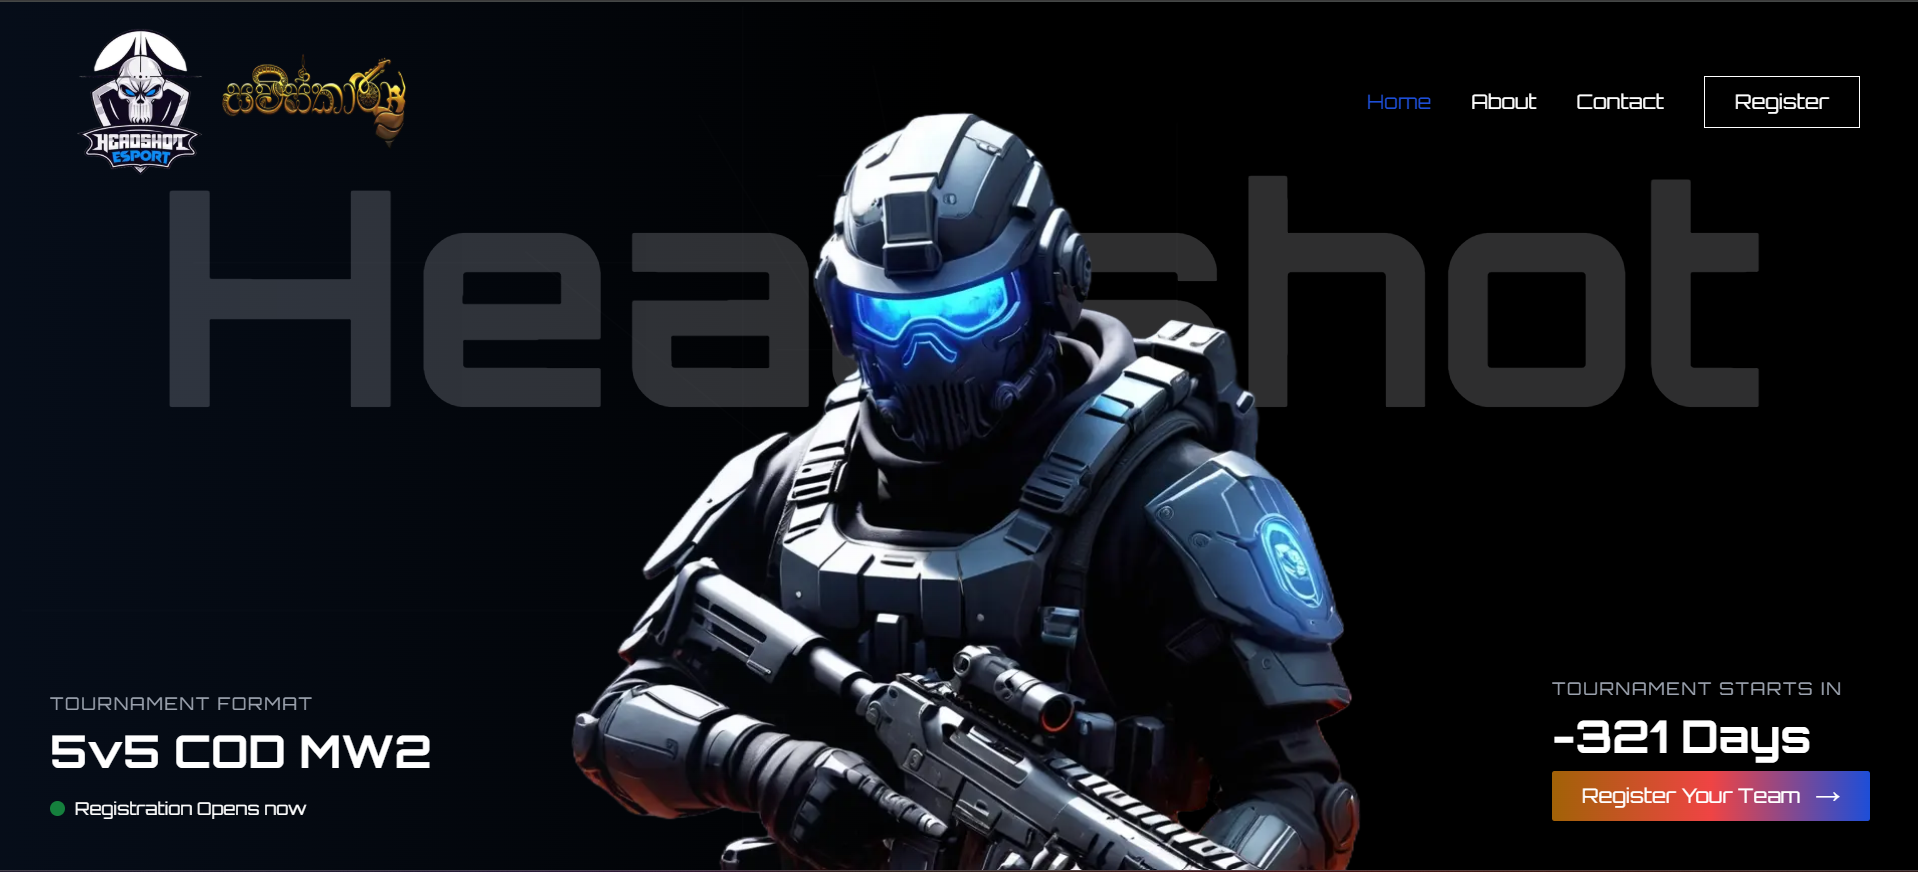
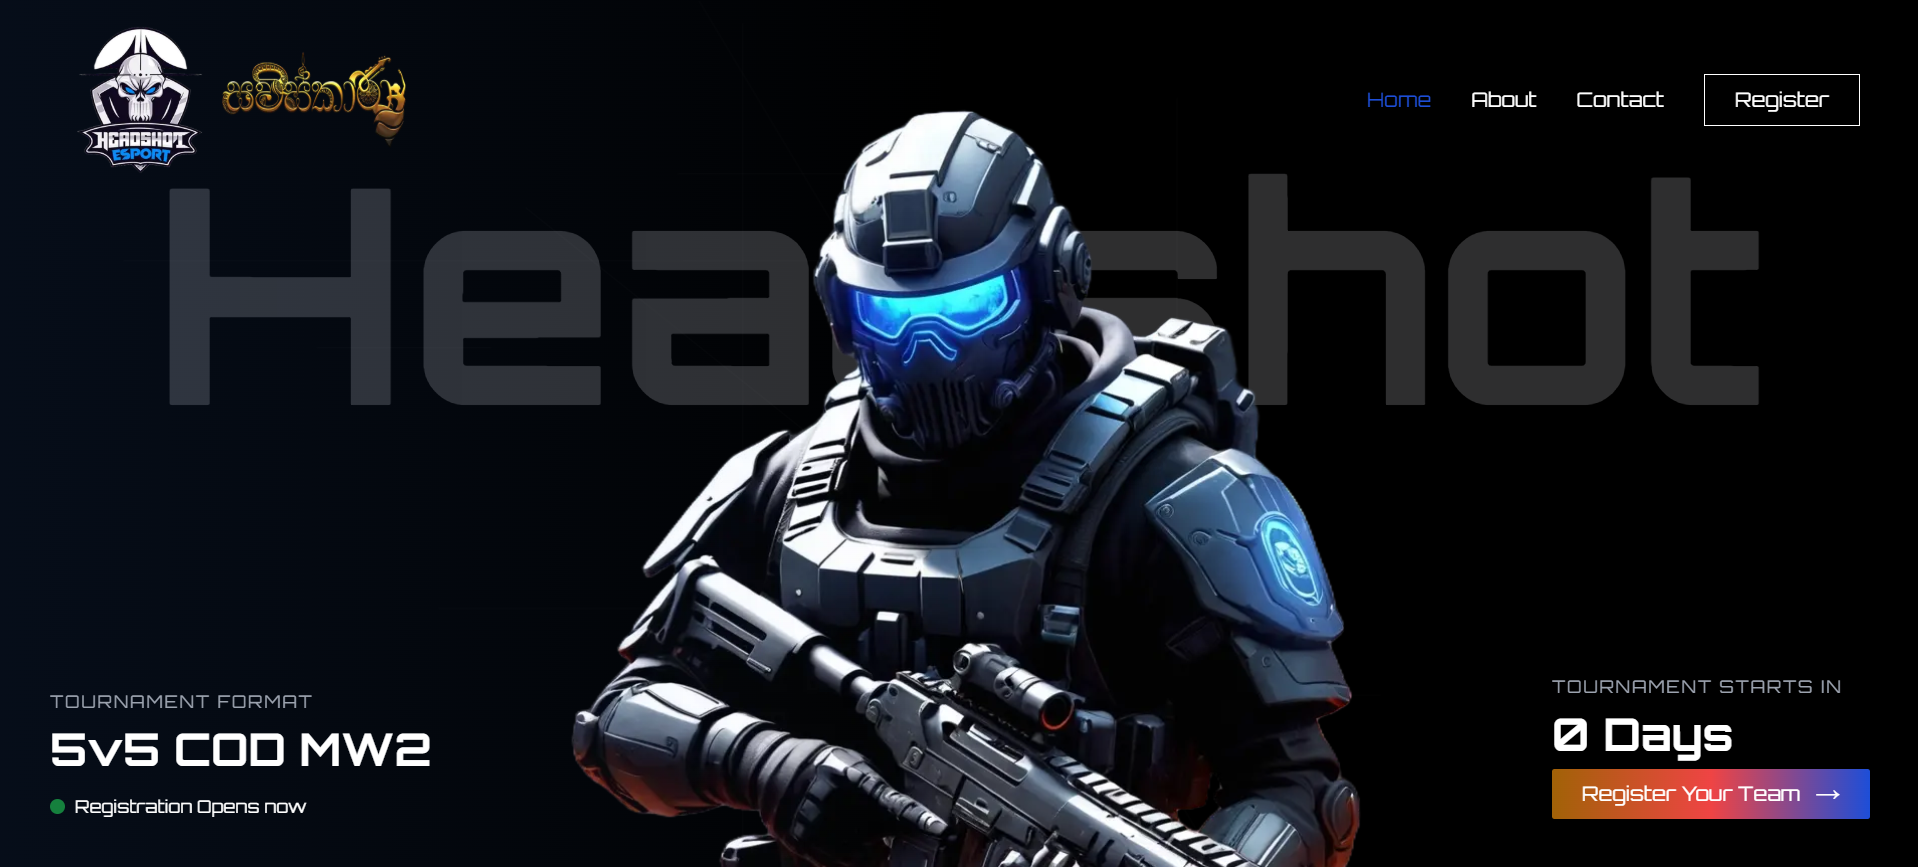
add project live demos

diff --git a/src/data/works.ts b/src/data/works.ts
@@ -27,6 +27,7 @@ export const works: Work[] = [
         description: "Health and longevity tracker built for the Brazil-based community to manage personal health records.",
         tags: ["SaaS", "Health Tech", "Analytics", "Full Stack"],
         image: "/projects/nooma.png",
+        liveUrl: "https://nooma-dev.vercel.app/",
         overview: "Nooma is a comprehensive health tracking platform built specifically for the Brazil-based community. The platform enables users to track their health through test results, medications, and family history. Users can monitor their health journey over time with powerful comparison tools and share records securely with healthcare providers.",
         challenge: "Users in Brazil needed a localized solution to consolidate their health data, track test results over time, and understand patterns in their health metrics. Existing solutions lacked the ability to compare multiple test results visually and didn't support the specific needs of the Brazilian healthcare context.",
         solution: "Built a full-stack application with Supabase backend that allows users to track tests, medications, and family history. Implemented a unique compare mode feature that lets users overlay multiple test results on the same chart to visualize trends and changes over time.",
@@ -97,6 +98,7 @@ export const works: Work[] = [
         description: "Frontend for GPU/TPU cloud rental platform with pixel-perfect Figma implementation.",
         tags: ["Frontend", "Cloud Computing", "UI/UX"],
         image: "/projects/virtu.png",
+        liveUrl: "https://virtu-network-fe.vercel.app/",
         overview: "Virtu Network is a GPU and TPU rental platform that enables users to access high-performance computing resources on demand. The project involved building a modern, responsive frontend interface based on detailed Figma designs provided by the client.",
         challenge: "The client provided comprehensive Figma designs for their cloud computing rental platform and needed a pixel-perfect implementation. The previous UI looked dull and suffered from poor performance, failing to convey the cutting-edge nature of the GPU/TPU rental service.",
         solution: "Rebuilt the entire frontend from scratch using Next.js and TypeScript, achieving 99% accuracy to the original Figma designs. Focused on performance optimization and creating a sleek, modern interface that matches the high-tech nature of the platform.",
@@ -118,6 +120,7 @@ export const works: Work[] = [
         description: "Player registration platform for Headshot E-sports inter-university competition.",
         tags: ["Full Stack", "E-Sports", "University", "Registration"],
         image: "/projects/headshot.png",
+        liveUrl: "https://headshot-reg.vercel.app/",
         overview: "Headshot is an E-sports competition organized by the Technology Subcommittee of the Faculty of Technology, University of Sri Jayewardenepura. In 2025, it expanded to become an inter-university competition requiring a robust platform to handle registrations from multiple universities.",
         challenge: "The 2025 edition of Headshot became an inter-university competition, requiring a platform that could register players from different universities and faculties. Organizers needed to collect detailed player information and export all data to Excel for tournament management.",
         solution: "Built a streamlined registration platform that captures university, faculty, and player details. Implemented an admin dashboard with Excel export functionality to give organizers easy access to all participant data for tournament coordination.",
@@ -139,6 +142,7 @@ export const works: Work[] = [
         description: "AI agent that transforms complex documentation into clear, step-by-step guidance.",
         tags: ["AI", "Full Stack", "RAG", "Vector DB"],
         image: "/projects/documaty.png",
+        sourceUrl: "https://github.com/Codehash001/Documatey",
         overview: "Documaty is an AI-powered documentation assistant that makes technical documentation accessible to everyone. It converts complex manuals, API docs, and guides into conversational, step-by-step instructions tailored to the user's needs.",
         challenge: "Technical documentation is often overwhelming, poorly structured, and assumes prior knowledge. Users spend excessive time searching through docs for simple answers.",
         solution: "Created an AI agent powered by OpenAI that ingests documentation, builds a semantic understanding of the content, and provides conversational access with context-aware responses and guided tutorials. Uses TiDB Serverless for efficient data storage and retrieval.",
@@ -160,6 +164,7 @@ export const works: Work[] = [
         description: "Minting engine and decentralized application for the Beni Web3 project.",
         tags: ["Solidity", "DApp", "Web3", "Smart Contracts"],
         image: "/projects/beni.png",
+        liveUrl: "https://beni-mainnet.vercel.app/",
         overview: "Beni Minting Dapp is a full-stack minting engine and decentralized application built for the Beni Web3 project. The platform features custom smart contracts, a user-friendly minting interface, and comprehensive tools for managing the NFT collection.",
         challenge: "The Beni Web3 project needed a custom minting solution that could handle their specific requirements while providing a smooth user experience for collectors. Standard minting platforms didn't offer the flexibility needed.",
         solution: "Developed a complete minting engine with gas-optimized smart contracts using Solidity and Hardhat. Built the frontend with Web3.js for seamless blockchain interaction and wallet connectivity.",
@@ -181,6 +186,7 @@ export const works: Work[] = [
         description: "Frontend for a fitness equipment selling website with dynamic animations.",
         tags: ["Frontend", "E-Commerce", "Animations"],
         image: "/projects/fitness.png",
+        liveUrl: "https://fitness-website-ui.vercel.app/",
         overview: "A modern, high-performance frontend for a fitness equipment e-commerce website. The site features stunning visuals, smooth Framer Motion animations, and an engaging shopping experience designed to showcase fitness equipment in the best light.",
         challenge: "The client needed an e-commerce frontend that could showcase their fitness equipment with energy and dynamism. The website needed to feel as active and engaging as the fitness lifestyle it promotes.",
         solution: "Built a highly animated frontend using Framer Motion for smooth, performance-optimized animations. Created an engaging product showcase with scroll-driven effects and interactive elements that bring the fitness equipment to life.",

diff --git a/src/components/SkillsKnowledgeGraph.tsx b/src/components/SkillsKnowledgeGraph.tsx
@@ -509,6 +509,31 @@ export default function SkillsKnowledgeGraph() {
 
         // Tick
         simulation.on("tick", () => {
+            // Constrain nodes within bounds
+            nodeData.forEach((d) => {
+                if (d.x === undefined || d.y === undefined) return;
+
+                const r = d.size * scale;
+                // Approximate text width constraints
+                // Heuristic: char length * estimated char width * scale
+                const labelWidth = (d.label?.length || 0) * 8 * scale * 0.6;
+
+                // Horizontal clamping
+                // Ensure the node (radius) AND the label (half width) stay inside
+                const cushionX = Math.max(r, labelWidth) + 20; // 20px extra padding
+                d.x = Math.max(cushionX, Math.min(width - cushionX, d.x));
+
+                // Vertical clamping
+                // Top: just radius + padding
+                // Bottom: radius + label offset + padding
+                const labelOffset = r + (isMobile ? 12 : 16);
+                const fontSize = (d.type === "me" ? 14 : d.size > 20 ? 12 : 10) * scale;
+                const cushionYTop = r + 20;
+                const cushionYBottom = labelOffset + fontSize + 20;
+
+                d.y = Math.max(cushionYTop, Math.min(height - cushionYBottom, d.y));
+            });
+
             link
                 .attr("x1", (d) => ((d.source as unknown as GraphNode).x ?? 0))
                 .attr("y1", (d) => ((d.source as unknown as GraphNode).y ?? 0))
